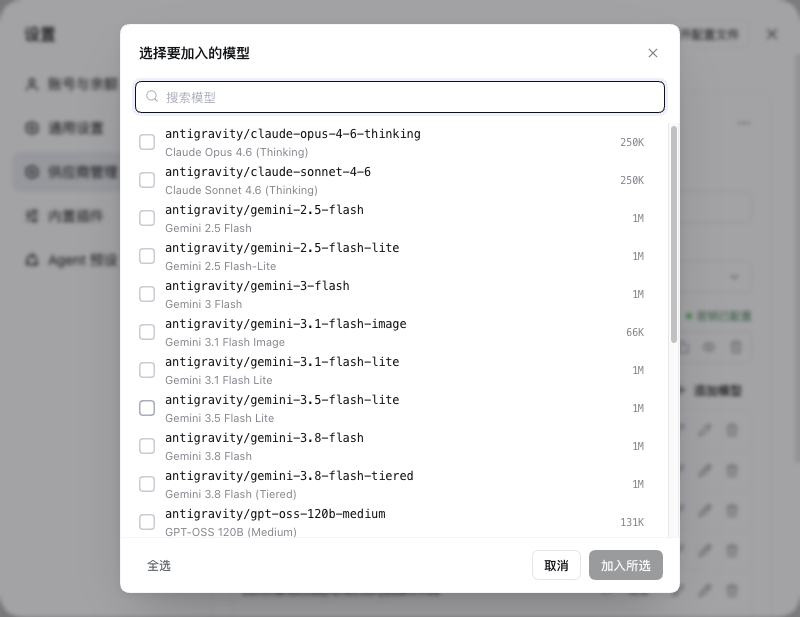
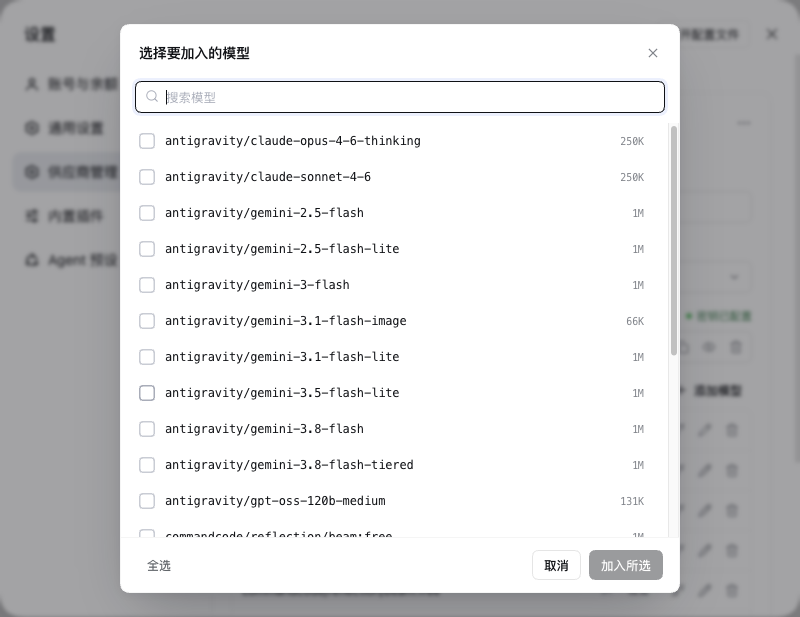
Show one line per model in the discover dialog

diff --git a/client.js b/client.js
@@ -3483,7 +3483,7 @@ window.__ModuleLoader__.load({
               checked,
               onChange: () => toggle(model.id)
             }
-          ), /* @__PURE__ */ import_react2.default.createElement("span", { className: `dpp-checkbox${checked ? " is-on" : ""}`, "aria-hidden": "true" }, checked ? /* @__PURE__ */ import_react2.default.createElement(Icon, { name: "check", size: 11, strokeWidth: 2.8 }) : null), /* @__PURE__ */ import_react2.default.createElement("span", { className: "dpp-pickMain" }, /* @__PURE__ */ import_react2.default.createElement("span", { className: "dpp-pickId", title: model.id }, model.id), model.name && model.name !== model.id ? /* @__PURE__ */ import_react2.default.createElement("span", { className: "dpp-pickName" }, model.name) : null), context !== "" ? /* @__PURE__ */ import_react2.default.createElement("span", { className: "dpp-badge dpp-badgeMono" }, context) : null);
+          ), /* @__PURE__ */ import_react2.default.createElement("span", { className: `dpp-checkbox${checked ? " is-on" : ""}`, "aria-hidden": "true" }, checked ? /* @__PURE__ */ import_react2.default.createElement(Icon, { name: "check", size: 11, strokeWidth: 2.8 }) : null), /* @__PURE__ */ import_react2.default.createElement("span", { className: "dpp-pickMain" }, /* @__PURE__ */ import_react2.default.createElement("span", { className: "dpp-pickId", title: model.name && model.name !== model.id ? `${model.id} \xB7 ${model.name}` : model.id }, model.id)), context !== "" ? /* @__PURE__ */ import_react2.default.createElement("span", { className: "dpp-badge dpp-badgeMono" }, context) : null);
         }))
       );
     }
@@ -4570,15 +4570,14 @@ window.__ModuleLoader__.load({
 
     /* ------------------------------------------------------------------ picker */
     .dpp-pickList{flex:1;min-height:0;overflow:auto;padding:0 8px 8px;scrollbar-width:thin}
-    .dpp-pickRow{display:flex;align-items:center;gap:10px;min-height:38px;padding:0 10px;border-radius:var(--dpp-r-sm);cursor:pointer;transition:background var(--dpp-t-fast)}
+    .dpp-pickRow{display:flex;align-items:center;gap:10px;min-height:36px;padding:0 10px;border-radius:var(--dpp-r-sm);cursor:pointer;transition:background var(--dpp-t-fast)}
     .dpp-pickRow:hover{background:var(--dpp-surface2)}
     .dpp-pickRow.is-selected{background:var(--dpp-brandSoft)}
     .dpp-checkbox{display:inline-flex;align-items:center;justify-content:center;width:16px;height:16px;flex:none;border:1.5px solid var(--dpp-line2);border-radius:4.5px;background:var(--dpp-surface);color:#fff;transition:background var(--dpp-t),border-color var(--dpp-t)}
     .dpp-pickRow:hover .dpp-checkbox{border-color:var(--dpp-fg4)}
     .dpp-checkbox.is-on{background:var(--dpp-brand);border-color:var(--dpp-brand);animation:dppPop var(--dpp-t) var(--dpp-ease)}
-    .dpp-pickMain{display:flex;flex-direction:column;gap:1px;min-width:0;flex:1}
+    .dpp-pickMain{display:flex;align-items:center;min-width:0;flex:1}
     .dpp-pickId{overflow:hidden;text-overflow:ellipsis;white-space:nowrap;font-family:var(--dpp-mono);font-size:12px;letter-spacing:-.01em}
-    .dpp-pickName{overflow:hidden;text-overflow:ellipsis;white-space:nowrap;font-size:11px;color:var(--dpp-fg3)}
     .dpp-pickEmpty{display:flex;align-items:center;justify-content:center;gap:8px;padding:36px 0;color:var(--dpp-fg3);font-size:12px}
 
     /* -------------------------------------------------------------------- tpls */

diff --git a/src/client/styles.js b/src/client/styles.js
@@ -246,15 +246,14 @@ export const CSS = `
 
 /* ------------------------------------------------------------------ picker */
 .dpp-pickList{flex:1;min-height:0;overflow:auto;padding:0 8px 8px;scrollbar-width:thin}
-.dpp-pickRow{display:flex;align-items:center;gap:10px;min-height:38px;padding:0 10px;border-radius:var(--dpp-r-sm);cursor:pointer;transition:background var(--dpp-t-fast)}
+.dpp-pickRow{display:flex;align-items:center;gap:10px;min-height:36px;padding:0 10px;border-radius:var(--dpp-r-sm);cursor:pointer;transition:background var(--dpp-t-fast)}
 .dpp-pickRow:hover{background:var(--dpp-surface2)}
 .dpp-pickRow.is-selected{background:var(--dpp-brandSoft)}
 .dpp-checkbox{display:inline-flex;align-items:center;justify-content:center;width:16px;height:16px;flex:none;border:1.5px solid var(--dpp-line2);border-radius:4.5px;background:var(--dpp-surface);color:#fff;transition:background var(--dpp-t),border-color var(--dpp-t)}
 .dpp-pickRow:hover .dpp-checkbox{border-color:var(--dpp-fg4)}
 .dpp-checkbox.is-on{background:var(--dpp-brand);border-color:var(--dpp-brand);animation:dppPop var(--dpp-t) var(--dpp-ease)}
-.dpp-pickMain{display:flex;flex-direction:column;gap:1px;min-width:0;flex:1}
+.dpp-pickMain{display:flex;align-items:center;min-width:0;flex:1}
 .dpp-pickId{overflow:hidden;text-overflow:ellipsis;white-space:nowrap;font-family:var(--dpp-mono);font-size:12px;letter-spacing:-.01em}
-.dpp-pickName{overflow:hidden;text-overflow:ellipsis;white-space:nowrap;font-size:11px;color:var(--dpp-fg3)}
 .dpp-pickEmpty{display:flex;align-items:center;justify-content:center;gap:8px;padding:36px 0;color:var(--dpp-fg3);font-size:12px}
 
 /* -------------------------------------------------------------------- tpls */

diff --git a/src/client/app.jsx b/src/client/app.jsx
@@ -953,10 +953,9 @@ function DiscoverModal({ open, t, result, onClose, onAdd, busy }) {
                 {checked ? <Icon name="check" size={11} strokeWidth={2.8} /> : null}
               </span>
               <span className="dpp-pickMain">
-                <span className="dpp-pickId" title={model.id}>{model.id}</span>
-                {model.name && model.name !== model.id
-                  ? <span className="dpp-pickName">{model.name}</span>
-                  : null}
+                <span className="dpp-pickId" title={model.name && model.name !== model.id ? `${model.id} · ${model.name}` : model.id}>
+                  {model.id}
+                </span>
               </span>
               {context !== '' ? <span className="dpp-badge dpp-badgeMono">{context}</span> : null}
             </label>
